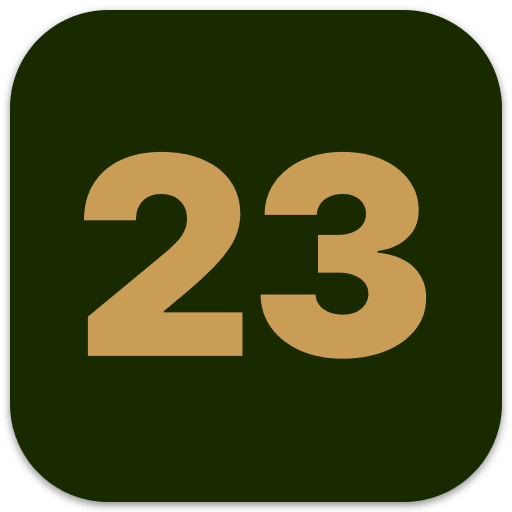
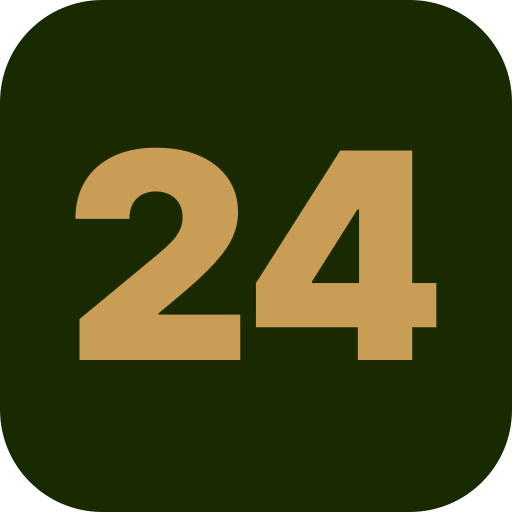
Update for next event

diff --git a/src/configs/navigation.ts b/src/configs/navigation.ts
@@ -1,4 +1,10 @@
-type NavigationSections = 'home' | 'tracks' | 'history' | 'gallery' | 'contact' | 'testimonials';
+type NavigationSections =
+  | 'home'
+  | 'tracks'
+  | 'history'
+  | 'gallery'
+  | 'contact'
+  | 'testimonials';
 type AnchorSection = {
   label: string;
   anchor: string;
@@ -15,21 +21,21 @@ export const navigation: Navigation = {
     label: 'Úvod',
     anchor: 'uvod',
   },
+  gallery: {
+    label: 'Galerie 2023',
+    anchor: 'galerie',
+  },
   testimonials: {
     label: 'Kronika',
     anchor: 'kronika',
   },
   tracks: {
-    label: 'Trasy',
+    label: 'Trasy 2023',
     anchor: 'trasy',
   },
   history: {
     label: 'Historie',
     anchor: 'historie',
-  },
-  gallery: {
-    label: 'Galerie',
-    anchor: 'galerie',
   },
   contact: {
     label: 'Napište nám',
@@ -37,9 +43,7 @@ export const navigation: Navigation = {
   },
 };
 
-export const getAnchor = (
-  section: NavigationSections
-): string | undefined => {
+export const getAnchor = (section: NavigationSections): string | undefined => {
   const navSection = navigation[section];
 
   return 'anchor' in navSection ? navSection.anchor : undefined;

diff --git a/src/configs/structured-data.ts b/src/configs/structured-data.ts
@@ -3,9 +3,9 @@ import type { Event, WithContext } from 'schema-dts';
 export const eventStructuredData: WithContext<Event> = {
   '@context': 'https://schema.org',
   '@type': 'Event',
-  name: 'PROVODÍNSKÁ ŠTRAPANDA 2023',
-  startDate: '2023-06-17',
-  endDate: '2023-06-17',
+  name: 'PROVODÍNSKÁ ŠTRAPANDA 2024',
+  startDate: '2024-06-15',
+  endDate: '2024-06-15',
   eventAttendanceMode: 'https://schema.org/OfflineEventAttendanceMode',
   eventStatus: 'https://schema.org/EventScheduled',
   location: {

diff --git a/src/scripts/navigation.ts b/src/scripts/navigation.ts
@@ -36,7 +36,7 @@ document.addEventListener('DOMContentLoaded', function () {
   });
 
   const menuListItems = document.querySelectorAll(
-    '#main-header .nav-list-item'
+    '#main-header .nav-list-item',
   );
   menuListItems?.forEach((el) => {
     el.addEventListener('click', () => {
